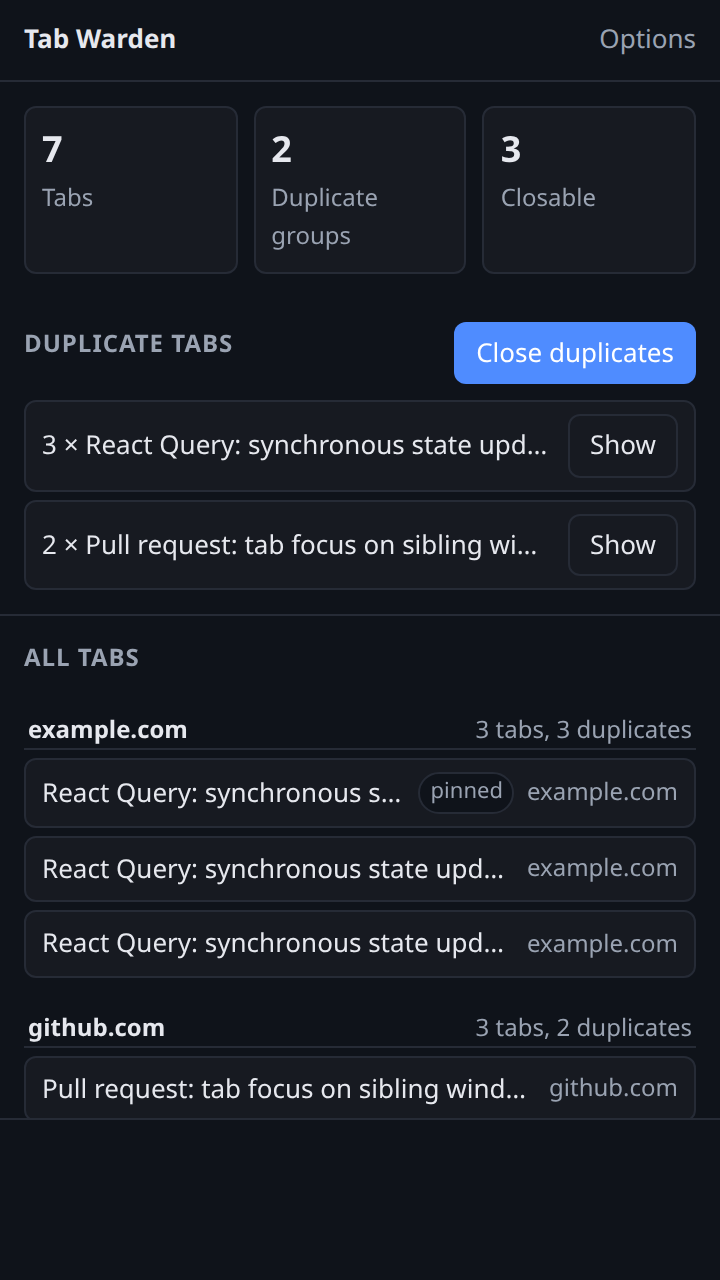
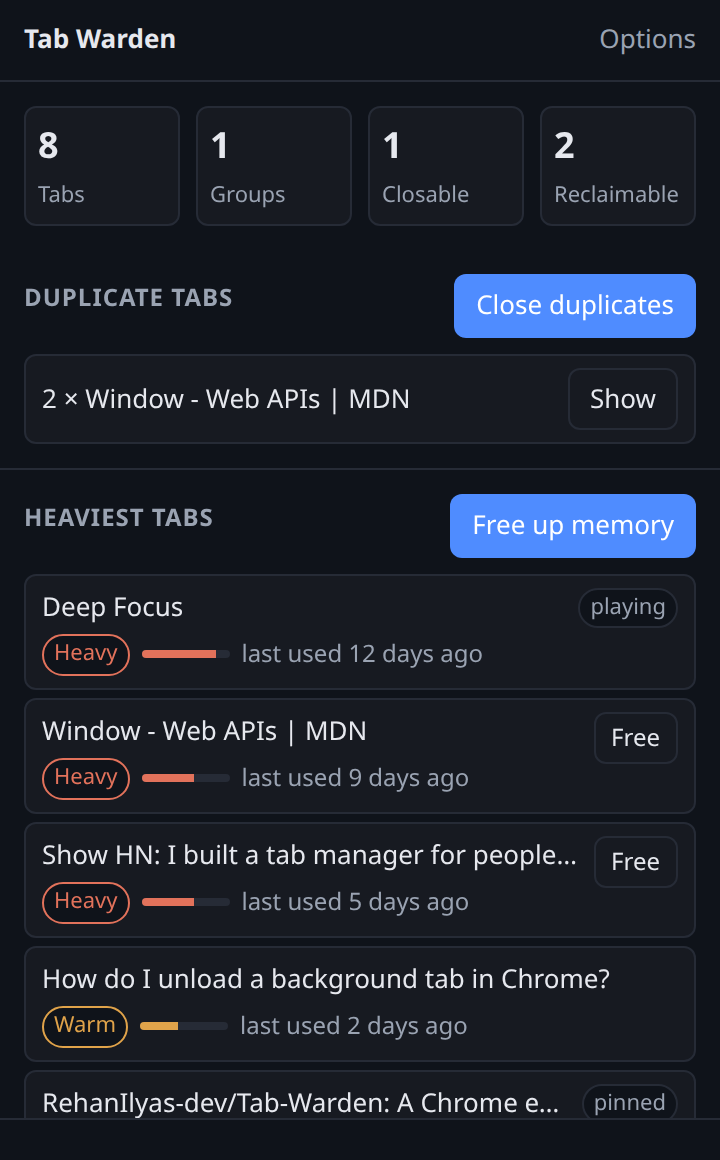
Prepare the 0.2.0 release
Moves the version to 0.2.0 and updates everything that describes the
extension:

- the manifest description, the package version and the lock file
- the README, with the new feature, the four stat cards, the three
  lists, and the honest note that the weight is an estimate
- the privacy policy, with the last used time it now reads and the
  four preferences it now stores
- the store graphics, rebuilt from a real capture of the new popup
- the store listing, with the new feature, the single purpose and the
  permission justifications

The release is not cut by this commit. The tag, the GitHub release and
the store upload are still to do by hand.

diff --git a/docs/index.html b/docs/index.html
@@ -58,8 +58,9 @@
 
       <p>
         Tab Warden is a Chrome extension that finds duplicate tabs, lists every open tab
-        grouped by site, and closes the copies you choose to remove. This page explains
-        what it reads, what it stores, and what it does not do.
+        grouped by site, closes the copies you choose to remove, and unloads the tabs you
+        have not used. This page explains what it reads, what it stores, and what it does
+        not do.
       </p>
 
       <h2>What the extension reads</h2>
@@ -68,6 +69,7 @@
         <li>Whether a tab is pinned, playing audio, or already unloaded, so it can pick which copy to keep.</li>
         <li>Which window a tab belongs to, so it can bring that window forward when you click a row.</li>
         <li>Which tab you are currently looking at, so it never closes it.</li>
+        <li>When a tab was last used, so it can tell you which ones have been sitting idle.</li>
       </ul>
       <p>
         This information is requested from Chrome each time the popup opens. It is held in
@@ -76,11 +78,13 @@
 
       <h2>What the extension stores</h2>
       <p>
-        Two preferences are saved on your device with <code>chrome.storage.local</code>:
+        Four preferences are saved on your device with <code>chrome.storage.local</code>:
       </p>
       <ul>
-        <li><code>ignorePinnedWhenClosing</code>, whether pinned tabs are skipped when closing duplicates.</li>
+        <li><code>ignorePinnedWhenClosing</code>, whether pinned tabs are skipped when closing or unloading.</li>
         <li><code>confirmBeforeClosing</code>, whether a confirmation row appears before closing.</li>
+        <li><code>staleAfterDays</code>, how many days a tab has to be unused before it counts as idle.</li>
+        <li><code>skipAudibleWhenDiscarding</code>, whether tabs playing audio are left alone.</li>
       </ul>
       <p>
         Nothing else is stored. No tab titles, URLs, or browsing history are saved.
@@ -98,11 +102,12 @@
       <h2>Permissions</h2>
       <ul>
         <li>
-          <code>tabs</code>: read the URL and title of open tabs. Without this permission,
-          Chrome only exposes tab identifiers, which are not enough to find duplicates.
+          <code>tabs</code>: read the URL, title, and last used time of open tabs. Without this
+          permission, Chrome only exposes tab identifiers, which are not enough to find
+          duplicates or to tell which tabs have been left idle.
         </li>
         <li>
-          <code>storage</code>: save the two preferences listed above on this device.
+          <code>storage</code>: save the four preferences listed above on this device.
         </li>
       </ul>
       <p>No other permissions are requested.</p>

diff --git a/scripts/make-store-assets.py b/scripts/make-store-assets.py
@@ -26,6 +26,8 @@ TEXT = (230, 232, 238)
 MUTED = (154, 163, 178)
 BORDER = (38, 43, 54)
 ACCENT = (79, 140, 255)
+WARN = (224, 163, 74)
+HOT = (226, 114, 91)
 
 REGULAR = "/usr/share/fonts/truetype/dejavu/DejaVuSans.ttf"
 BOLD = "/usr/share/fonts/truetype/dejavu/DejaVuSans-Bold.ttf"
@@ -150,14 +152,14 @@ def make_screenshot():
     brand_row(img, left, 62, 44, 24)
 
     headline = load_font(52, True)
-    draw.text((left, 150), "Duplicate tabs,", font=headline, fill=TEXT)
-    draw.text((left, 212), "found and closed.", font=headline, fill=TEXT)
+    draw.text((left, 150), "Find the copies.", font=headline, fill=TEXT)
+    draw.text((left, 212), "Unload the idle ones.", font=headline, fill=TEXT)
 
     body_end = paragraph(
         draw,
         (left, 312),
-        "Tab Warden finds the same page opened from different links, lists every tab "
-        "grouped by site, and closes the copies you pick while keeping what matters.",
+        "Tab Warden finds the same page opened from different links, lists every tab grouped "
+        "by site, and frees the tabs you have not touched in days.",
         load_font(21),
         MUTED,
         600,
@@ -169,8 +171,8 @@ def make_screenshot():
         (left, body_end + 38),
         [
             "Finds copies even when the tracking links differ",
-            "Every open tab grouped by site",
-            "Pinned tabs and the active tab are never closed",
+            "Shows the tabs that have been sitting idle",
+            "Unloads them without closing them",
         ],
         load_font(20),
         TEXT,
@@ -179,7 +181,7 @@ def make_screenshot():
     draw.text((left, 700), "Runs on your device. No network calls, no analytics.", font=load_font(16), fill=MUTED)
 
     card_h = 744
-    card_w = round(720 * card_h / 1280)
+    card_w = popup_image(card_h).width
     popup_card(img, 1280 - 80 - card_w, 28, card_h)
 
     img.convert("RGB").save(OUT / "screenshot-1.png")
@@ -190,7 +192,7 @@ def make_promo():
     draw = ImageDraw.Draw(img)
 
     brand_row(img, 32, 34, 56, 27)
-    draw.text((32, 146), "Find and close duplicate tabs.", font=load_font(17), fill=TEXT)
+    draw.text((32, 146), "Find duplicates, free memory.", font=load_font(17), fill=TEXT)
     draw.text((32, 174), "Grouped by site. Pinned tabs kept.", font=load_font(17), fill=MUTED)
 
     img.convert("RGB").save(OUT / "promo-440x280.png")
@@ -204,14 +206,14 @@ def make_marquee():
     brand_row(img, left, 62, 48, 26)
 
     headline = load_font(54, True)
-    draw.text((left, 176), "Duplicate tabs,", font=headline, fill=TEXT)
-    draw.text((left, 240), "found and closed.", font=headline, fill=TEXT)
+    draw.text((left, 176), "Find the copies.", font=headline, fill=TEXT)
+    draw.text((left, 240), "Unload the idle ones.", font=headline, fill=TEXT)
 
     paragraph(
         draw,
         (left, 340),
-        "Finds the same page opened from different links, groups every tab by site, "
-        "and closes the copies while keeping your pinned tabs.",
+        "Finds the same page opened from different links, groups every tab by site, and "
+        "unloads the tabs you have not touched in days.",
         load_font(21),
         MUTED,
         640,
@@ -219,7 +221,7 @@ def make_marquee():
     )
 
     card_h = 480
-    card_w = round(720 * card_h / 1280)
+    card_w = popup_image(card_h).width
     popup_card(img, 1400 - 90 - card_w, 40, card_h)
 
     img.convert("RGB").save(OUT / "marquee-1400x560.png")

diff --git a/docs/store/listing.md b/docs/store/listing.md
@@ -10,10 +10,10 @@ Everything the Developer Dashboard asks for, ready to paste. Last updated 19 Oct
 Tab Warden
 ```
 
-**Short description** (max 132 characters, 108 used)
+**Short description** (max 132 characters, 121 used)
 
 ```
-Finds duplicate tabs by URL, lists every open tab grouped by site, and closes the copies you no longer need.
+Finds duplicate tabs by URL, lists every open tab grouped by site, closes the copies, and unloads the tabs you left idle.
 ```
 
 **Category**
@@ -31,7 +31,7 @@ English (United States)
 **Detailed description** (plain text, the store strips markdown)
 
 ```
-Tab Warden finds duplicate tabs for you and closes the ones you do not need.
+Tab Warden finds duplicate tabs for you, closes the ones you do not need, and frees the memory held by the tabs you have forgotten about.
 
 Duplicate finder
 The same page often sits in several tabs because you opened it from a newsletter, a search result, and a link in a chat. Tab Warden compares tabs by their real address, ignoring tracking parameters and matching YouTube links by video id, so those copies collapse into one row.
@@ -39,11 +39,17 @@ The same page often sits in several tabs because you opened it from a newsletter
 Close with guards
 The Close duplicates button shows an inline confirmation and then closes the copies. It never closes the tab you are looking at, and it skips your pinned tabs by default. Afterwards it reports how many tabs were closed and how many were kept.
 
+Heaviest tabs
+The second list rates your tabs, heaviest first. A tab you have not touched for days sits at the top, and a tab playing music in the background counts too. The rating is an estimate. Chrome does not give extensions a real memory figure for a tab, so the rating comes from how long a tab has been idle, whether it is playing audio, and whether it is a duplicate.
+
+Free up memory
+The Free button unloads one idle tab, and Free up memory unloads all of them at once. Unloading empties the memory a background tab was holding and leaves the tab in place, so it reloads when you click it. Anything you had not saved on that page is lost, so the button asks first.
+
 Every tab, grouped by site
-The second list shows all your open tabs grouped by domain, most recent first. Click any row to jump straight to that tab and bring its window to the front. Rows carry a pinned or playing tag where it applies.
+The third list shows all your open tabs grouped by domain, most recent first. Click any row to jump straight to that tab and bring its window to the front. Rows carry a pinned, playing, or stale tag where it applies.
 
 Private by design
-Everything runs on your device. There are no network requests, no analytics, and no telemetry. Tab addresses and titles are read when the popup opens and are never saved. The only thing stored is your two preferences.
+Everything runs on your device. There are no network requests, no analytics, and no telemetry. Tab addresses and titles are read when the popup opens and are never saved. The only thing stored is your preferences.
 
 Support
 Report a problem at https://github.com/RehanIlyas-dev/Tab-Warden/issues
@@ -64,19 +70,19 @@ Report a problem at https://github.com/RehanIlyas-dev/Tab-Warden/issues
 **Single purpose**
 
 ```
-Find and close duplicate browser tabs.
+Clean up your open tabs by finding duplicates and unloading the ones you have not used.
 ```
 
 **Permission justification, `tabs`**
 
 ```
-Reads the URL and title of open tabs so duplicates can be found and every tab listed by site. Without this permission Chrome exposes only tab identifiers, which are not enough to compare pages.
+Reads the URL and title of open tabs so duplicates can be found, every tab listed by site, and idle tabs unloaded. Without this permission Chrome exposes only tab identifiers, which are not enough to compare pages.
 ```
 
 **Permission justification, `storage`**
 
 ```
-Saves two preferences on the device: whether pinned tabs are skipped when closing duplicates, and whether a confirmation appears before anything is closed.
+Saves your preferences on the device: whether pinned tabs are skipped, whether a confirmation appears before anything is closed or unloaded, how many days count as stale, and whether tabs playing audio are left alone.
 ```
 
 **Remote code**
@@ -89,7 +95,7 @@ No, I am not using remote code.
 
 | Category | Collected | Transmitted off device | Purpose | Sold or shared |
 | --- | --- | --- | --- | --- |
-| Web history | Yes | No | App functionality, showing and closing duplicate tabs | No |
+| Web history | Yes | No | App functionality, showing, closing, and unloading tabs | No |
 | All other categories | No | No | Not applicable | No |
 
 The tab URL and title is what the extension reads, and Chrome classifies that as web history. It stays in memory for the session and is never written to disk or sent anywhere, so nothing leaves the device.
@@ -123,12 +129,14 @@ Support URL: https://github.com/RehanIlyas-dev/Tab-Warden/issues
 
 ## Package
 
-Upload `tab-warden-0.1.1.zip` from the repo root, built with `npm run package`.
+Upload `tab-warden-0.2.0.zip` from the repo root, built with `npm run package`.
 
 ## Review notes
 
 Things that could draw a question from a reviewer:
 
 - The single purpose is tab cleanup. The extension does not touch extensions or notifications, so it stays within one purpose.
-- Only two permissions are requested and both are used by shipped features.
+- Only two permissions are requested and both are used by shipped features. The tab weight and unload feature added no new permission, it uses the `tabs` permission that was already there.
+- The weight shown in the popup is an estimate, not a memory reading. Chrome does not expose per tab memory to extensions, so the listing says so in plain words.
+- Unloading a tab empties the memory it was holding and the tab reloads when you click it. The confirmation says this.
 - No host permissions, no content scripts, and no remote code.

diff --git a/README.md b/README.md
@@ -4,9 +4,9 @@
 
 <h1>Tab Warden</h1>
 
-<p><strong>A Chrome extension that finds duplicate tabs, groups every open tab by site, and closes the copies you no longer need.</strong></p>
+<p><strong>A Chrome extension that finds duplicate tabs, groups every open tab by site, and unloads the tabs you have not touched in days.</strong></p>
 
-<p><img src="docs/store/marquee-1400x560.png" width="100%" alt="Tab Warden banner reading duplicate tabs, found and closed, next to the popup showing duplicate groups and every tab grouped by site"></p>
+<p><img src="docs/store/marquee-1400x560.png" width="100%" alt="Tab Warden banner reading find the copies, unload the idle ones, next to the popup showing duplicate groups and the heaviest tabs"></p>
 
 <p>
 <a href="https://developer.chrome.com/docs/extensions/mv3/intro"><img src="https://img.shields.io/badge/manifest-MV3-4285F4?style=flat-square" alt="Manifest V3" height="20"></a>
@@ -16,7 +16,7 @@
 <a href="https://www.npmjs.com/"><img src="https://img.shields.io/badge/npm-CB3837?style=flat-square" alt="npm" height="20"></a>
 <a href="https://developer.chrome.com/docs/extensions/mv3/intro"><img src="https://img.shields.io/badge/runtime_dependencies-none-2EA44F?style=flat-square" alt="Zero runtime dependencies" height="20"></a>
 <a href="https://developer.chrome.com/docs/extensions/mv3/intro"><img src="https://img.shields.io/badge/telemetry-none-2EA44F?style=flat-square" alt="No telemetry" height="20"></a>
-<a href="https://github.com/RehanIlyas-dev/Tab-Warden/releases"><img src="https://img.shields.io/badge/release-v0.1.1-2EA44F?style=flat-square" alt="Release v0.1.1" height="20"></a>
+<a href="https://github.com/RehanIlyas-dev/Tab-Warden/releases"><img src="https://img.shields.io/badge/release-v0.2.0-2EA44F?style=flat-square" alt="Release v0.2.0" height="20"></a>
 <a href="https://vitest.dev/"><img src="https://img.shields.io/badge/tests-162_passing-2EA44F?style=flat-square" alt="162 tests passing" height="20"></a>
 </p>
 
@@ -37,34 +37,48 @@ Tab Warden answers one question: what is costing me right now, and what can I cl
 
 ## Features
 
-| Feature               | What it does                                      |
-| --------------------- | ------------------------------------------------- |
-| **Duplicate finder**  | Groups tabs by normalized URL and closes the copies |
-| **All tabs by site**  | Every open tab, grouped by domain, click to focus  |
-| **Guarded closing**   | Never closes the active tab or your pinned tabs    |
+| Feature               | What it does                                                |
+| --------------------- | ----------------------------------------------------------- |
+| **Duplicate finder**  | Groups tabs by normalized URL and closes the copies          |
+| **All tabs by site**  | Every open tab, grouped by domain, click to focus            |
+| **Tab weight**        | Rates each tab by how long it has been idle and what it does  |
+| **Free up memory**    | Unloads idle background tabs, they reload when you go back   |
+| **Guarded closing**   | Never closes the active tab or your pinned tabs              |
 
 Everything here is covered by 162 unit tests, and the extension asks for only two
 permissions: `tabs` and `storage`.
 
 ## Using it
 
-Open the toolbar icon. Three stat cards, then two lists:
+Open the toolbar icon. Four stat cards, then three lists:
 
 - **Duplicate tabs**, one row per group, showing how many copies exist. The
   **Show** button jumps to that tab and raises its window.
+- **Heaviest tabs**, the tabs that are costing the most, each with a weight and
+  how long you have not touched it. **Free** unloads one tab, and **Free up
+  memory** unloads all the idle ones at once.
 - **All tabs**, every open tab grouped by domain, most recent first. Click any row
   to jump to it. Rows tagged `pinned` are kept by default, and the tab you are
   looking at is never closed.
 
-**Close duplicates** shows an inline confirmation, then closes the copies and
-reports how many were closed and how many were kept.
+**Close duplicates** and **Free up memory** both show an inline confirmation,
+then report how many were done and how many were kept.
+
+The weight is an estimate, not a memory reading. Chrome does not hand extensions
+a real memory figure for a tab, so the rating comes from how long a tab has been
+idle, whether it is playing audio, and whether it is a duplicate. Unloading frees
+the memory and the tab reloads when you click it, so anything you had not saved
+on that page is lost.
+
+Options holds the switches: keep pinned tabs, ask before closing, how many days
+count as stale, and leave tabs that are playing audio alone.
 
 ## Install
 
 ### Download the release
 
 Grab
-[`tab-warden-0.1.1.zip`](https://github.com/RehanIlyas-dev/Tab-Warden/releases/download/v0.1.1/tab-warden-0.1.1.zip),
+[`tab-warden-0.2.0.zip`](https://github.com/RehanIlyas-dev/Tab-Warden/releases/download/v0.2.0/tab-warden-0.2.0.zip),
 unzip it, then open `chrome://extensions`, turn on **Developer mode**, click
 **Load unpacked**, and pick the unzipped folder. No build step needed.
 
@@ -103,6 +117,7 @@ Tab-Warden/
 │   ├── lib/tab.js
 │   ├── lib/focus.js
 │   ├── lib/messages.js
+│   ├── lib/weight.js
 │   ├── popup/main.js
 │   ├── popup/style.css
 │   └── options/main.js
@@ -110,6 +125,7 @@ Tab-Warden/
     ├── tab.test.js
     ├── service-worker.test.js
     ├── focus.test.js
+    ├── weight.test.js
     └── fake-chrome.js
 ```
 
